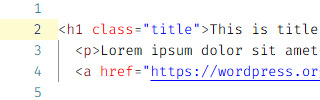
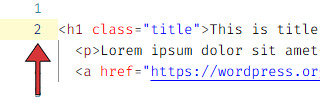
Point at the line number in all line highlight images

Changed region(s): [[0.0625, 0.42, 0.1562, 0.96]]

diff --git a/.claude/skills/capture-help-images/SKILL.md b/.claude/skills/capture-help-images/SKILL.md
@@ -198,7 +198,7 @@ spec の主な項目（全項目は `lib/capture.mjs` の冒頭）:
   - `minimap/show-slider_1.jpg`: `_2.gif` と同じく、プレビューの初期コードを6回繰り返し、エディタの右端から300pxと右のページ（`#f0f0f1`）20pxを320×280で切り抜く。
   - `scrollbar/horizontal_2.jpg`・`_3.jpg`: `_1.gif` と同じく、高さ199pxのエディタの下に白いページ（`#fff`）41pxを入れ、コード領域の左端から256×240で切り抜く。
   - `scrollbar/vertical_2.jpg`・`_3.jpg`: `_1.gif` と同じく、高さ199pxのエディタの上に白いページ（`#fff`）41pxを入れ、エディタの右端から256×240で切り抜く。
-- **赤い矢印（ルール7）:** `render-line-highlight_1.jpg`・`_2.jpg` は、ハイライトされた2行目の行番号を下から上向きの矢印で指す。all と line の違いは行番号の部分のハイライトだけで、矢印がないとどこが違うのか分かりにくいため。
+- **赤い矢印（ルール7）:** `render-line-highlight_1.jpg`〜`_4.jpg` は、カーソルのある2行目の行番号を下から上向きの矢印で指す。設定ごとの違いは行と行番号のハイライトの有無で、特に all と line は行番号の部分だけが違い、矢印がないとどこが違うのか分かりにくいため。4枚とも同じ位置に入れる（ルール1）。
 - **テーマ:** `render-line-highlight_1.jpg`〜`_3.jpg`、`render-whitespace_1.jpg`〜`_5.jpg` は Clouds（`theme: 'clouds'`）にする。元画像は Clouds で撮られており、Light では行のハイライトと空白記号が薄くて見えにくいため。`render-line-highlight_4.jpg`（ハイライトなし）は Light のまま。
 
 ### タイミングをそろえた GIF のグループ（ルール2）
